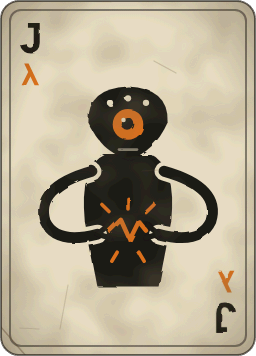
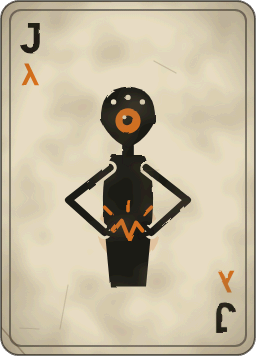
The card table's deck: the vortigaunt and the Administrator redrawn thin
The owner: both looked wide; a vortigaunt and the Administrator are thin. Only 11.png and 12.png changed
in what players see.

Claude-Session: https://claude.ai/code/session_01Y8SXQkYrUC2vSdmFZKTNua

Changed region(s): [[0.125, 0.2472, 0.875, 0.8343]]

diff --git a/_dev/posters/cards.js b/_dev/posters/cards.js
@@ -63,17 +63,16 @@ const ART = {
     s('M-26,-70 L-72,-108 L-86,114', 9) + s('M30,-72 L80,-104 L94,114', 9) + s('M2,-62 L12,-24 L-2,114', 9) +
     f('M-38,-94 L32,-100 L50,-80 L22,-60 L-34,-62 Z') + s('M-10,-60 L-20,-30', 7) + c(-21, -27, 6, O) + c(-18, -80, 4, P),
   // a vortigaunt, freed
-  J: () => c(0, 52, 44, O, 'opacity=".22"') + f('M-26,-30 Q-54,-18 -48,44 L-34,116 L34,116 L48,44 Q54,-18 26,-30 Z') +
-    mirror(s('M-40,-12 Q-104,6 -92,44 Q-80,70 -34,58', 21, P) + s('M-40,-12 Q-104,6 -92,44 Q-80,70 -34,58', 12) + s('M-34,58 l12,-10 M-34,58 l14,4', 6)) +
-    s('M-20,54 L-8,42 L2,64 L12,44 L20,54', 5, O) + s('M0,30 l0,-12 M-20,34 l-9,-9 M20,34 l9,-9 M-12,78 l-6,10 M12,78 l6,10', 4, O) +
-    f('M-44,-66 Q-46,-104 0,-106 Q46,-104 44,-66 Q30,-34 0,-24 Q-30,-34 -44,-66 Z') + c(0, -64, 17, O) + c(0, -64, 7) + c(-5, -69, 2.5, P) +
-    c(-20, -88, 3.5, P) + c(0, -93, 3.5, P) + c(20, -88, 3.5, P) + s('M-10,-36 L10,-36', 3, P, 'opacity=".5"'),
+  J: () => c(0, 54, 34, O, 'opacity=".22"') + f('M-17,-30 Q-31,-10 -27,40 L-20,116 L20,116 L27,40 Q31,-10 17,-30 Z') + s('M0,-40 L0,-24', 13) +
+    mirror(s('M-20,-16 L-66,20 L-26,56', 15, P) + s('M-20,-16 L-66,20 L-26,56', 8) + s('M-26,56 l11,-9 M-26,56 l13,4', 5)) +
+    s('M-16,54 L-7,43 L1,63 L9,45 L16,54', 4.5, O) + s('M0,32 l0,-11 M-18,36 l-8,-8 M18,36 l8,-8', 4, O) +
+    f('M-30,-68 Q-32,-104 0,-106 Q32,-104 30,-68 Q20,-46 0,-38 Q-20,-46 -30,-68 Z') + c(0, -68, 14, O) + c(0, -68, 6) + c(-4, -72, 2.2, P) +
+    c(-16, -89, 3, P) + c(0, -94, 3, P) + c(16, -89, 3, P),
   // the Administrator, on every screen in the city
   Q: () => `<rect x="-88" y="-108" width="176" height="196" rx="16" fill="${K}"/><rect x="-72" y="-92" width="144" height="164" rx="6" fill="${O}"/>` +
     `<rect x="-34" y="88" width="68" height="12" fill="${K}"/><rect x="-56" y="100" width="112" height="12" rx="4" fill="${K}"/>` +
-    `<g clip-path="url(#screen)">` + c(0, -70, 14) + `<ellipse cx="0" cy="-32" rx="25" ry="31" fill="${K}"/>` +
-    f('M-27,-36 Q-34,-8 -22,6 L-16,-30 Z M27,-36 Q34,-8 22,6 L16,-30 Z') +
-    f('M-76,76 L-76,46 Q-44,14 -14,6 L14,6 Q44,14 76,46 L76,76 Z') + s('M-13,8 L0,34 L13,8', 4, O) + c(0, 46, 4, O) +
+    `<g clip-path="url(#screen)">` + c(0, -64, 10) + `<ellipse cx="0" cy="-34" rx="17" ry="23" fill="${K}"/>` + s('M0,-14 L0,10', 10) +
+    f('M-38,76 L-38,40 Q-34,16 -11,8 L11,8 Q34,16 38,40 L38,76 Z') + s('M-9,10 L0,30 L9,10', 3.5, O) + c(0, 42, 3.5, O) +
     Array.from({ length: 16 }, (_, i) => `<rect x="-72" y="${-90 + i * 10}" width="144" height="3" fill="${P}" opacity=".16"/>`).join('') + '</g>' +
     c(60, 80, 4, O),
   // the Colonel
